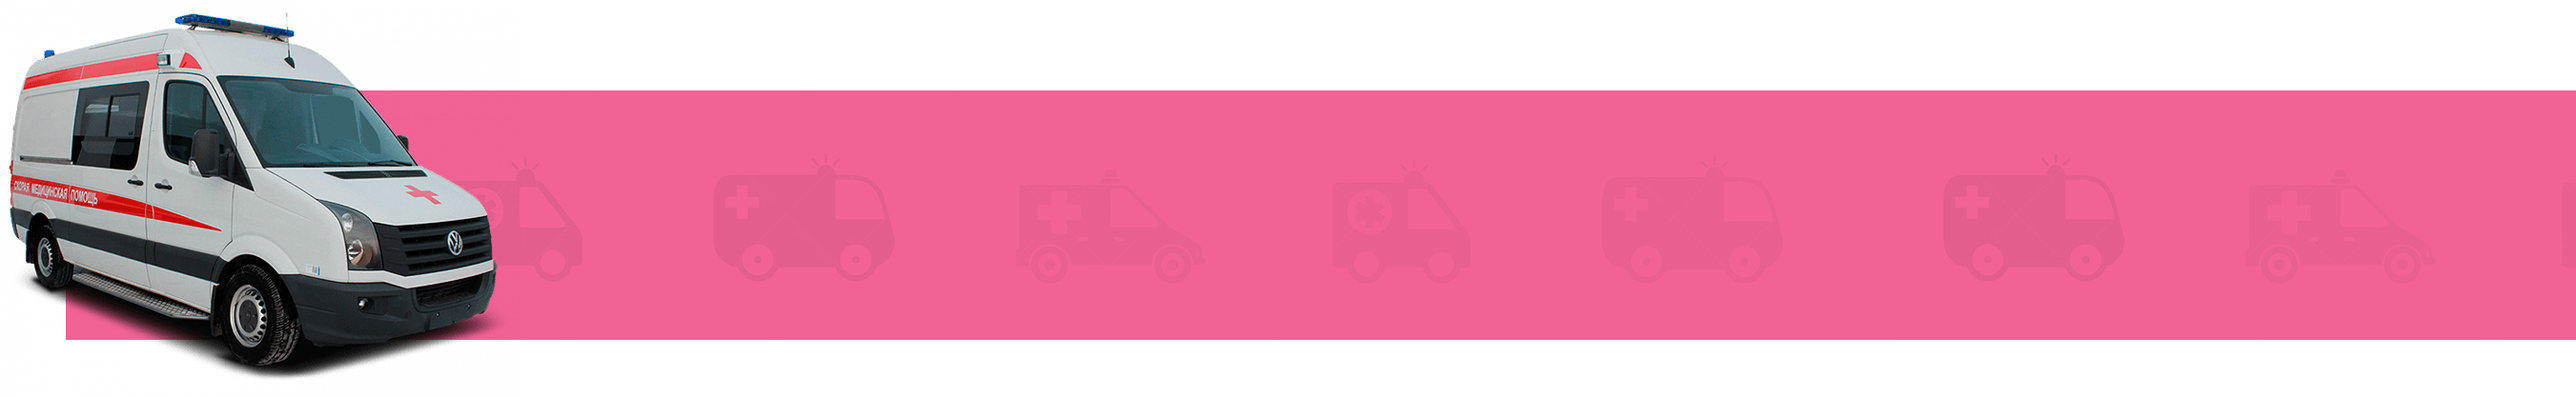
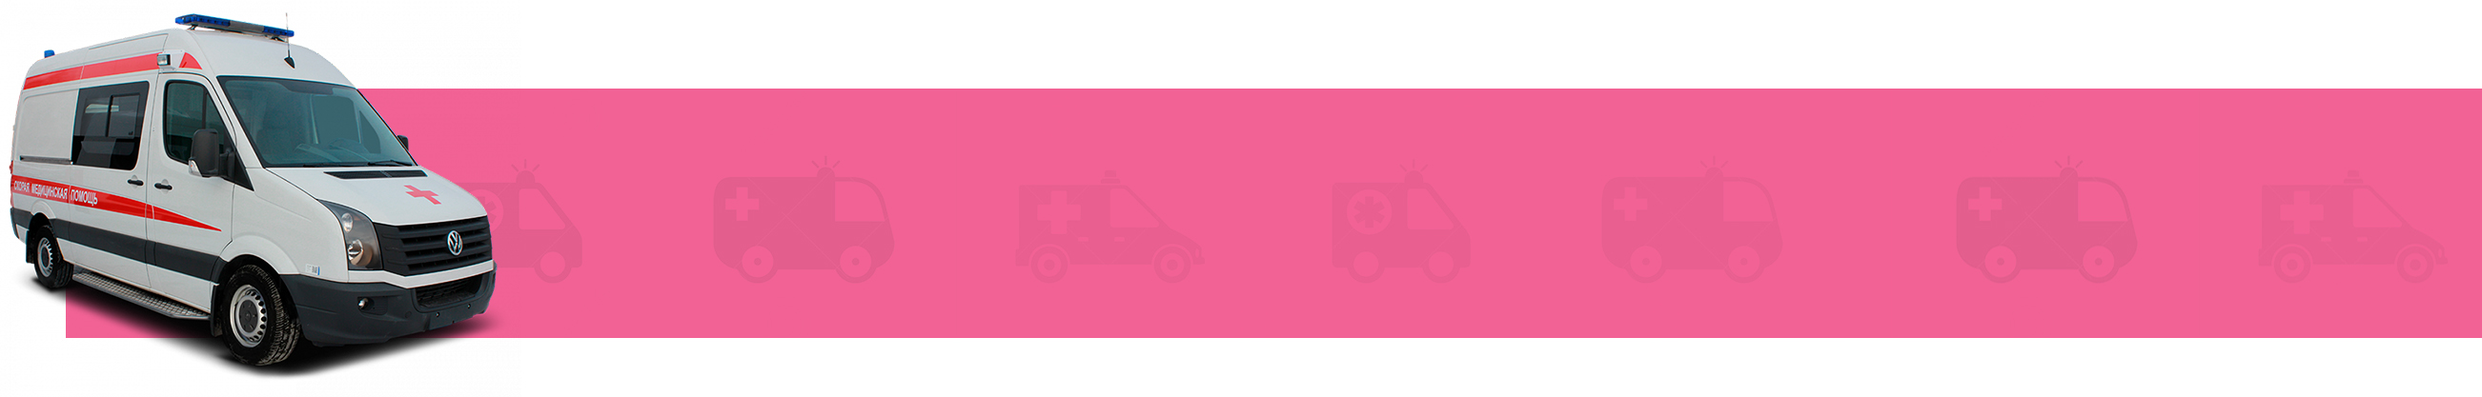
new fix

Changed region(s): [[0.0, 0.0312, 1.0, 0.9664]]

diff --git a/css/main.css b/css/main.css
@@ -216,7 +216,7 @@
   .hero__email-field, .hero__phone-field {
     max-width: 310px;
     margin-top: 10px;
-    border: 2px solid #444444;
+    border: 1px solid #444444;
     font-size: 20px;
     padding: 10px 5px; }
 
@@ -464,14 +464,18 @@
 
 .ring-past {
   max-width: 2150px;
-  margin-left: -200px;
-  padding-left: 200px;
+  margin-left: -250px;
+  padding-left: 250px;
   margin-top: 150px;
   background: url(../img/ring-past-back.jpg) no-repeat; }
   @media (max-width: 1430px) {
     .ring-past {
-      margin-left: -40px;
-      padding-left: 400px; } }
+      margin-left: -250px;
+      padding-left: 250px; } }
+  @media (max-width: 1330px) {
+    .ring-past {
+      margin-left: -300px;
+      padding-left: 300px; } }
   .ring-past-container {
     max-width: 1170px;
     margin: 0 auto;

diff --git a/css/components/ring-past.css b/css/components/ring-past.css
@@ -1,13 +1,17 @@
 .ring-past {
   max-width: 2150px;
-  margin-left: -200px;
-  padding-left: 200px;
+  margin-left: -250px;
+  padding-left: 250px;
   margin-top: 150px;
   background: url(../img/ring-past-back.jpg) no-repeat; }
   @media (max-width: 1430px) {
     .ring-past {
-      margin-left: -40px;
-      padding-left: 400px; } }
+      margin-left: -250px;
+      padding-left: 250px; } }
+  @media (max-width: 1330px) {
+    .ring-past {
+      margin-left: -300px;
+      padding-left: 300px; } }
   .ring-past-container {
     max-width: 1170px;
     margin: 0 auto;

diff --git a/css/components/hero.css b/css/components/hero.css
@@ -55,7 +55,7 @@
   .hero__email-field, .hero__phone-field {
     max-width: 310px;
     margin-top: 10px;
-    border: 2px solid #444444;
+    border: 1px solid #444444;
     font-size: 20px;
     padding: 10px 5px; }
 
